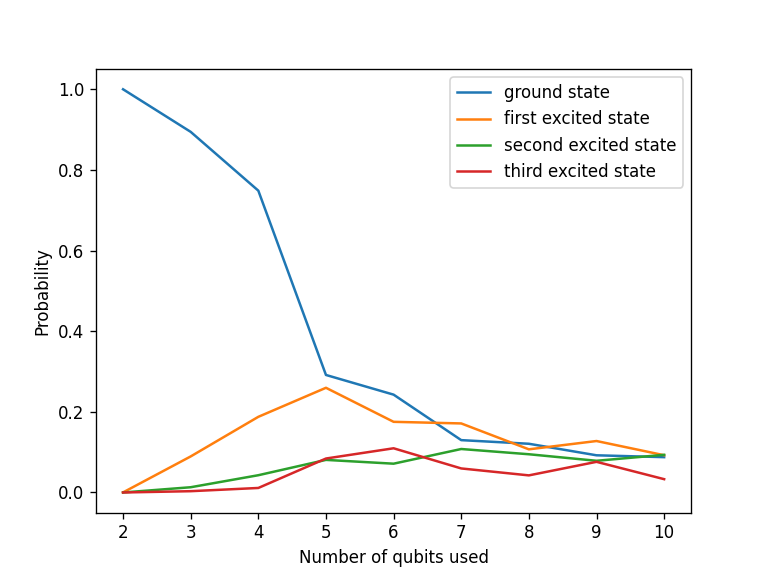
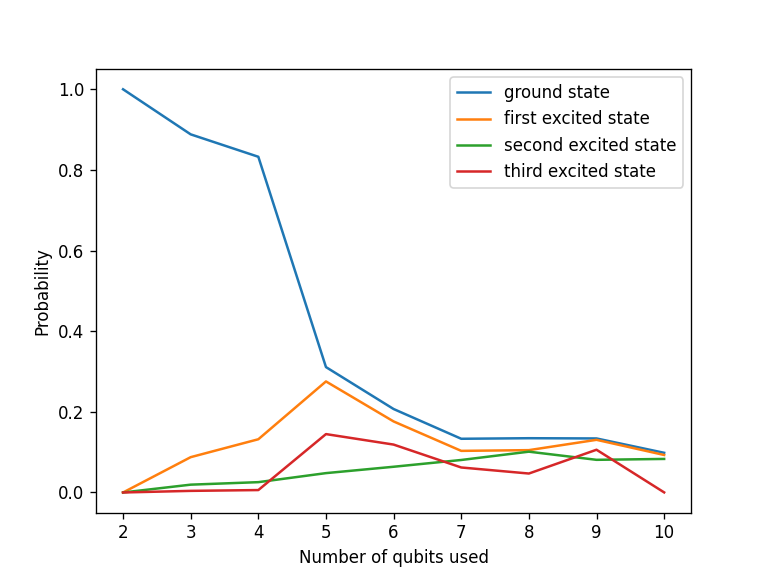
New data

Changed region(s): [[0.1875, 0.1875, 0.875, 0.875], [0.1562, 0.1562, 0.1875, 0.1875]]

diff --git a/energies_kp_plot.py b/energies_kp_plot.py
@@ -3,7 +3,7 @@ import pandas as pd
 import math as mt
 import matplotlib.pyplot as plt
 
-data = pd.read_excel(r'.\energies_kp.xlsx', sheet_name = "probability")
+data = pd.read_excel(r'.\energies_kp.xlsx', sheet_name = "probability2")
 
 n_qubits = np.array(data['n_qubits'])
 e0 = np.array(data['e0'])/5000
